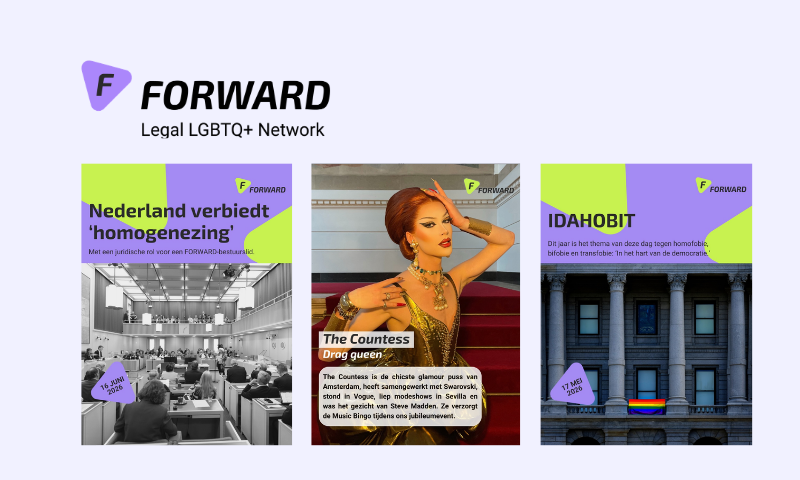
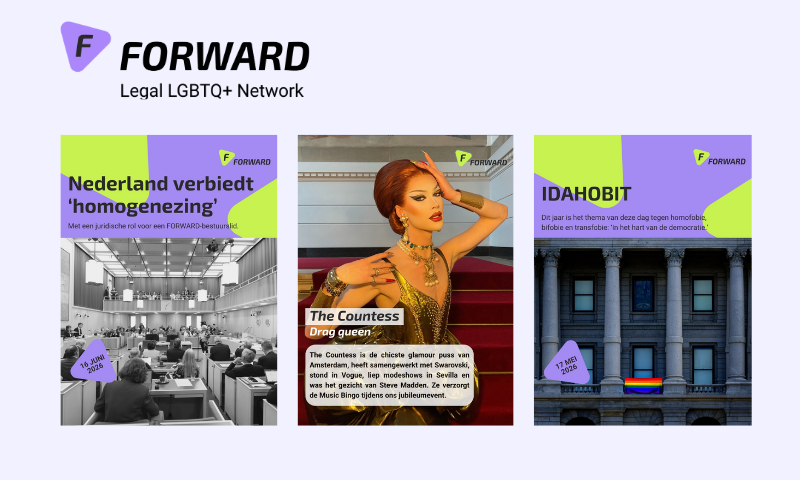
Add files via upload

diff --git a/index.html b/index.html
@@ -145,6 +145,14 @@
     }
 
     .button.primary { border-color: var(--brochure-wine); background: var(--brochure-wine); color: #fff; }
+    .button.is-disabled {
+      border-color: rgba(255,255,255,.18);
+      background: rgba(255,255,255,.14);
+      color: rgba(255,255,255,.74);
+      cursor: default;
+      pointer-events: none;
+      box-shadow: none;
+    }
     .button svg { width: 17px; height: 17px; flex: 0 0 auto; }
     .button:hover { border-color: var(--brochure-wine); background: var(--brochure-wine); color: #fff; transform: translateY(-2px); box-shadow: 0 10px 25px rgba(0,0,0,.2); }
     .button.primary:hover { border-color: #a71359; background: #a71359; }
@@ -222,6 +230,7 @@
     .portfolio-grid::-webkit-scrollbar { height: 8px; }
     .portfolio-grid::-webkit-scrollbar-track { border-radius: 999px; background: rgba(255,255,255,.08); }
     .portfolio-grid::-webkit-scrollbar-thumb { border-radius: 999px; background: rgba(129,76,148,.85); }
+    .scroll-hint { display: none; }
 
     .project {
       flex: 0 0 min(390px, 86vw);
@@ -362,16 +371,66 @@
 
     .music-section { padding: 28px 34px; }
     .music-section .section-heading { margin-bottom: 18px; }
-    .music-grid { display: grid; grid-template-columns: repeat(4, minmax(0, 1fr)); gap: 10px; }
-    .music-card { display: flex; flex-direction: column; justify-content: space-between; aspect-ratio: 2 / 1; padding: 17px; border: 1px solid rgba(255,255,255,.12); border-radius: 16px; text-decoration: none; }
-    .music-card.spotify { background: linear-gradient(135deg, #252861, #3c3975); }
-    .music-card.soundcloud { background: linear-gradient(135deg, #352948, #503346); }
-    .music-card.bops-spotify { background: linear-gradient(135deg, #342750, #513255); }
-    .music-card.apple-music { background: linear-gradient(135deg, #3c293f, #57303c); }
-    .music-label { display: inline-flex; align-items: center; gap: 7px; font-size: .68rem; font-weight: 800; letter-spacing: .09em; text-transform: uppercase; opacity: .82; }
-    .music-label svg { width: 17px; height: 17px; flex: 0 0 auto; }
-    .music-card h3 { max-width: 400px; font-size: clamp(1rem, 2vw, 1.3rem); }
-    .music-card > .css-arrow { width: 14px; height: 14px; }
+    .music-grid { display: flex; flex-wrap: wrap; gap: 12px; }
+    .music-card {
+      display: inline-flex;
+      align-items: center;
+      justify-content: center;
+      gap: 12px;
+      min-height: 64px;
+      padding: 12px 18px;
+      border: 1px solid rgba(129,76,148,.28);
+      border-radius: 16px;
+      background: rgba(255,255,255,.95);
+      color: #261c34;
+      text-decoration: none;
+      box-shadow: 0 10px 22px rgba(6,4,42,.11);
+      transition: transform .2s ease, border-color .2s ease, box-shadow .2s ease, background .2s ease, color .2s ease;
+    }
+    .music-card:hover {
+      border-color: rgba(129,76,148,.58);
+      background: #fff;
+      color: var(--brochure-wine);
+      transform: translateY(-2px);
+      box-shadow: 0 14px 28px rgba(6,4,42,.18);
+    }
+    .music-label {
+      display: inline-flex;
+      align-items: center;
+      gap: 10px;
+      font-size: clamp(.98rem, 1.4vw, 1.12rem);
+      font-weight: 900;
+      letter-spacing: -.02em;
+      line-height: 1;
+    }
+    .music-text { display: grid; gap: 4px; }
+    .music-title {
+      color: #261c34;
+      font-family: "Baloo Bhai 2", "Manrope", sans-serif;
+      font-size: clamp(.98rem, 1.4vw, 1.12rem);
+      font-weight: 800;
+      letter-spacing: -.02em;
+      line-height: 1.05;
+    }
+    .music-service {
+      color: rgba(38,28,52,.68);
+      font-size: .72rem;
+      font-weight: 800;
+      letter-spacing: -.01em;
+      line-height: 1.1;
+    }
+    .music-card:hover .music-title { color: var(--brochure-wine); }
+    .music-card:hover .music-service { color: rgba(143,0,72,.72); }
+    .music-label svg { width: 19px; height: 19px; flex: 0 0 auto; }
+    .music-card.spotify .music-label svg,
+    .music-card.bops-spotify .music-label svg { color: #159447; }
+    .music-card.soundcloud .music-label svg { color: #ef4b16; }
+    .music-card.apple-music .apple-mark { color: var(--brochure-wine); font-size: 1.35em; line-height: .8; }
+    .music-card > .css-arrow {
+      width: 12px;
+      height: 12px;
+      color: var(--brochure-wine);
+    }
 
     .contact { display: grid; grid-template-columns: 1fr auto; align-items: center; gap: 24px; padding: 38px; }
     .contact p { margin-top: 8px; color: rgba(255,255,255,.75); }
@@ -386,8 +445,7 @@
     }
 
     @media (max-width: 980px) {
-      .music-grid { grid-template-columns: repeat(2, minmax(0, 1fr)); }
-      .music-card { aspect-ratio: 2 / 1; }
+      .music-card { flex: 1 1 calc(50% - 12px); }
     }
 
     @media (max-width: 760px) {
@@ -402,8 +460,21 @@
       .section-copy { margin-top: 8px; }
       .services { grid-template-columns: 1fr; }
       .music-section { padding: 24px 20px; }
-      .music-card { aspect-ratio: 2 / 1; }
-      .project { flex-basis: min(340px, 84vw); }
+      .music-card { flex: 1 1 calc(50% - 12px); }
+      .scroll-hint {
+        display: flex;
+        align-items: center;
+        justify-content: flex-end;
+        gap: 9px;
+        margin: -8px 2px 12px;
+        color: rgba(255,255,255,.76);
+        font-size: .72rem;
+        font-weight: 800;
+        letter-spacing: .08em;
+        text-transform: uppercase;
+      }
+      .scroll-hint .css-arrow { animation: swipe-cue 1.4s ease-in-out infinite; }
+      .project { flex-basis: min(340px, 78vw); }
       .dj-feature { grid-template-columns: 1fr; padding: 30px 24px; }
       .reel { flex-basis: min(320px, 84vw); }
       .bops { padding: 28px 20px; }
@@ -417,12 +488,16 @@
     }
 
     @media (max-width: 430px) {
-      .music-grid { grid-template-columns: 1fr; }
-      .music-card { aspect-ratio: 2 / 1; }
+      .music-card { flex-basis: 100%; }
     }
 
     @media (prefers-reduced-motion: reduce) {
       *, *::before, *::after { scroll-behavior: auto !important; animation: none !important; transition: none !important; }
+    }
+
+    @keyframes swipe-cue {
+      0%, 100% { transform: translateX(0); }
+      50% { transform: translateX(5px); }
     }
   </style>
 </head>
@@ -509,6 +584,7 @@
         </div>
         <p class="section-copy">A selection of strategy, social content, and creative projects.</p>
       </div>
+      <div class="scroll-hint" aria-hidden="true">Swipe to explore <span class="css-arrow"></span></div>
       <div class="portfolio-grid">
         <article class="project">
           <div class="project-image"><img src="assets/tui-campaign-content.png" alt="Examples of TUI campaign content" loading="lazy"></div>
@@ -664,9 +740,11 @@
               <path d="M8.1 12.1c2.7-.8 6.1-.5 8.4.8"></path>
               <path d="M8.8 14.9c2.2-.6 4.8-.4 6.7.7"></path>
             </svg>
-            Spotify playlist
+            <span class="music-text">
+              <span class="music-title">Italian Pop Girlies 🇮🇹</span>
+              <span class="music-service">Spotify</span>
+            </span>
           </span>
-          <h3>Italian Pop Girlies 🇮🇹</h3>
           <span class="css-arrow up-right" aria-hidden="true"></span>
         </a>
         <a class="music-card soundcloud" href="https://soundcloud.com/absoluut" target="_blank" rel="noopener noreferrer">
@@ -675,9 +753,11 @@
               <path d="M1 11.5h1v4H1zm2-2h1v6H3zm2-1.5h1v7.5H5zm2-1h1v8.5H7zm2 .7h1v7.8H9zm2-1.5h1v9.3h-1z"></path>
               <path d="M13 15.5a5.5 5.5 0 0 1 10.4-2.5H24a2.5 2.5 0 0 1 0 5H13Z" transform="translate(0 -2.5)"></path>
             </svg>
-            SoundCloud
+            <span class="music-text">
+              <span class="music-title">DJ mixes</span>
+              <span class="music-service">SoundCloud</span>
+            </span>
           </span>
-          <h3>DJ mixes</h3>
           <span class="css-arrow up-right" aria-hidden="true"></span>
         </a>
         <a class="music-card bops-spotify" href="https://open.spotify.com/playlist/4oriGmT5x8BeqVLwpiesro?si=wkwScWZXTQajowGhEYNidw&amp;utm_medium=share&amp;utm_source=linktree" target="_blank" rel="noopener noreferrer">
@@ -688,14 +768,15 @@
               <path d="M8.1 12.1c2.7-.8 6.1-.5 8.4.8"></path>
               <path d="M8.8 14.9c2.2-.6 4.8-.4 6.7.7"></path>
             </svg>
-            BOPS on Spotify
+            <span class="music-text">
+              <span class="music-title">BOPS Playlist</span>
+              <span class="music-service">Spotify</span>
+            </span>
           </span>
-          <h3>Queer Pop Party playlist</h3>
           <span class="css-arrow up-right" aria-hidden="true"></span>
         </a>
         <a class="music-card apple-music" href="https://music.apple.com/nl/playlist/bops-queer-pop-party/pl.u-GBaaF7zEve?l=en" target="_blank" rel="noopener noreferrer">
-          <span class="music-label">BOPS on  Music</span>
-          <h3>Queer Pop Party playlist</h3>
+          <span class="music-label"><span class="apple-mark" aria-hidden="true"></span> <span class="music-text"><span class="music-title">BOPS Playlist</span><span class="music-service">Apple Music</span></span></span>
           <span class="css-arrow up-right" aria-hidden="true"></span>
         </a>
       </div>
@@ -737,10 +818,22 @@
         date.textContent = `Next event · ${event.displayDate}`;
         title.textContent = event.title;
         if (event.ticketUrl) {
+          link.textContent = '';
+          link.append('Get tickets ');
+          const arrow = document.createElement('span');
+          arrow.className = 'css-arrow up-right';
+          arrow.setAttribute('aria-hidden', 'true');
+          link.append(arrow);
           link.href = event.ticketUrl;
+          link.classList.remove('is-disabled');
+          link.removeAttribute('aria-disabled');
           link.hidden = false;
         } else {
-          link.hidden = true;
+          link.textContent = 'Tickets coming soon';
+          link.removeAttribute('href');
+          link.classList.add('is-disabled');
+          link.setAttribute('aria-disabled', 'true');
+          link.hidden = false;
         }
       })
       .catch(() => {});